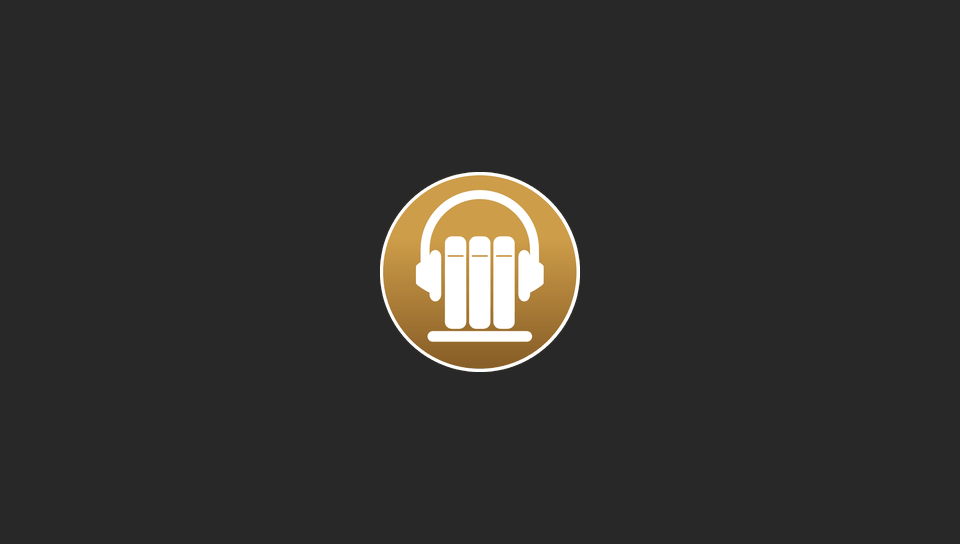
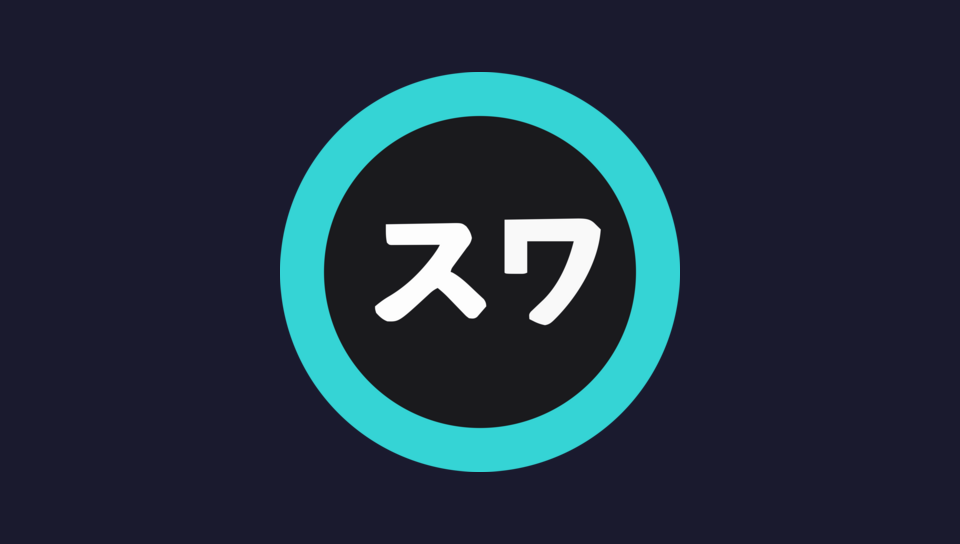
Update branding and fix server connection API
- Replace sce_sys images with official Suwayomi logo/branding
- Fix ServerInfo struct to match Suwayomi AboutDataClass fields
- Add Basic Auth support for server authentication
- Add fallback connection test using /api/v1/source/list endpoint
- Improve logging for debugging connection issues

Changed region(s): [[0.2812, 0.125, 0.7188, 0.875]]

diff --git a/src/app/suwayomi_client.cpp b/src/app/suwayomi_client.cpp
@@ -396,23 +396,68 @@ bool SuwayomiClient::fetchServerInfo(ServerInfo& info) {
     vitasuwayomi::HttpClient http;
     http.setDefaultHeader("Accept", "application/json");
 
-    if (!m_authUsername.empty()) {
-        // TODO: Add basic auth header
+    // Add basic auth if credentials are set
+    if (!m_authUsername.empty() && !m_authPassword.empty()) {
+        // Base64 encode username:password for Basic Auth
+        std::string credentials = m_authUsername + ":" + m_authPassword;
+        // Simple base64 encoding for ASCII
[1 lines of base64/hex data omitted]
+        std::string encoded;
+        int val = 0, valb = -6;
+        for (unsigned char c : credentials) {
+            val = (val << 8) + c;
+            valb += 8;
+            while (valb >= 0) {
+                encoded.push_back(b64chars[(val >> valb) & 0x3F]);
+                valb -= 6;
+            }
+        }
+        if (valb > -6) encoded.push_back(b64chars[((val << 8) >> (valb + 8)) & 0x3F]);
+        while (encoded.size() % 4) encoded.push_back('=');
+        http.setDefaultHeader("Authorization", "Basic " + encoded);
     }
 
+    // Try /api/v1/settings/about endpoint (standard Suwayomi endpoint)
     std::string url = m_serverUrl + "/api/v1/settings/about";
+    brls::Logger::info("Fetching server info from: {}", url);
     vitasuwayomi::HttpResponse response = http.get(url);
 
     if (!response.success || response.statusCode != 200) {
-        brls::Logger::error("Failed to fetch server info: {} ({})",
-                           response.error, response.statusCode);
-        return false;
+        brls::Logger::warning("Primary endpoint failed ({}), trying fallback...", response.statusCode);
+
+        // Fallback: Try to fetch source list as connection test
+        url = m_serverUrl + "/api/v1/source/list";
+        response = http.get(url);
+
+        if (!response.success || response.statusCode != 200) {
+            brls::Logger::error("Failed to connect to server: {} ({})",
+                               response.error, response.statusCode);
+            return false;
+        }
+
+        // If source list works, server is reachable but about endpoint might not exist
+        info.name = "Suwayomi";
+        info.version = "Unknown";
+        info.buildType = "Unknown";
+        brls::Logger::info("Connected via fallback (source list endpoint)");
+        return true;
     }
 
-    info.version = extractJsonValue(response.body, "version");
-    info.buildType = extractJsonValue(response.body, "buildType");
-    info.debug = extractJsonBool(response.body, "debug");
+    brls::Logger::debug("Server response: {}", response.body.substr(0, 200));
 
+    // Parse About response (name, version, revision, buildType, buildTime, github, discord)
+    info.name = extractJsonValue(response.body, "name");
+    info.version = extractJsonValue(response.body, "version");
+    info.revision = extractJsonValue(response.body, "revision");
+    info.buildType = extractJsonValue(response.body, "buildType");
+    info.buildTime = extractJsonInt64(response.body, "buildTime");
+    info.github = extractJsonValue(response.body, "github");
+    info.discord = extractJsonValue(response.body, "discord");
+
+    // Fallback name if not set
+    if (info.name.empty()) info.name = "Suwayomi";
+
+    brls::Logger::info("Server: {} v{} ({})", info.name, info.version, info.buildType);
     return true;
 }
 

diff --git a/include/app/suwayomi_client.hpp b/include/app/suwayomi_client.hpp
@@ -158,25 +158,15 @@ struct DownloadQueueItem {
     std::string error;
 };
 
-// Server settings/info
+// Server settings/info (matches Suwayomi AboutDataClass)
 struct ServerInfo {
+    std::string name;
     std::string version;
+    std::string revision;
     std::string buildType;
-    bool debug = false;
-    std::string webUIChannel;
-    std::string webUIFlavor;
-    int webUIUpdateCheckInterval = 0;
-    bool socksProxyEnabled = false;
-    std::string socksProxyHost;
-    std::string socksProxyPort;
-    bool downloadAsCbz = false;
-    std::string downloadsPath;
-    bool autoDownloadNewChapters = false;
-    int maxSourcesInParallel = 6;
-    bool excludeEntryWithUnreadChapters = false;
-    bool autoDownloadIgnoreReUploads = false;
-    int autoDownloadNewChaptersLimit = 0;
-    int extensionRepos = 0;
+    int64_t buildTime = 0;
+    std::string github;
+    std::string discord;
 };
 
 // Source filter types
